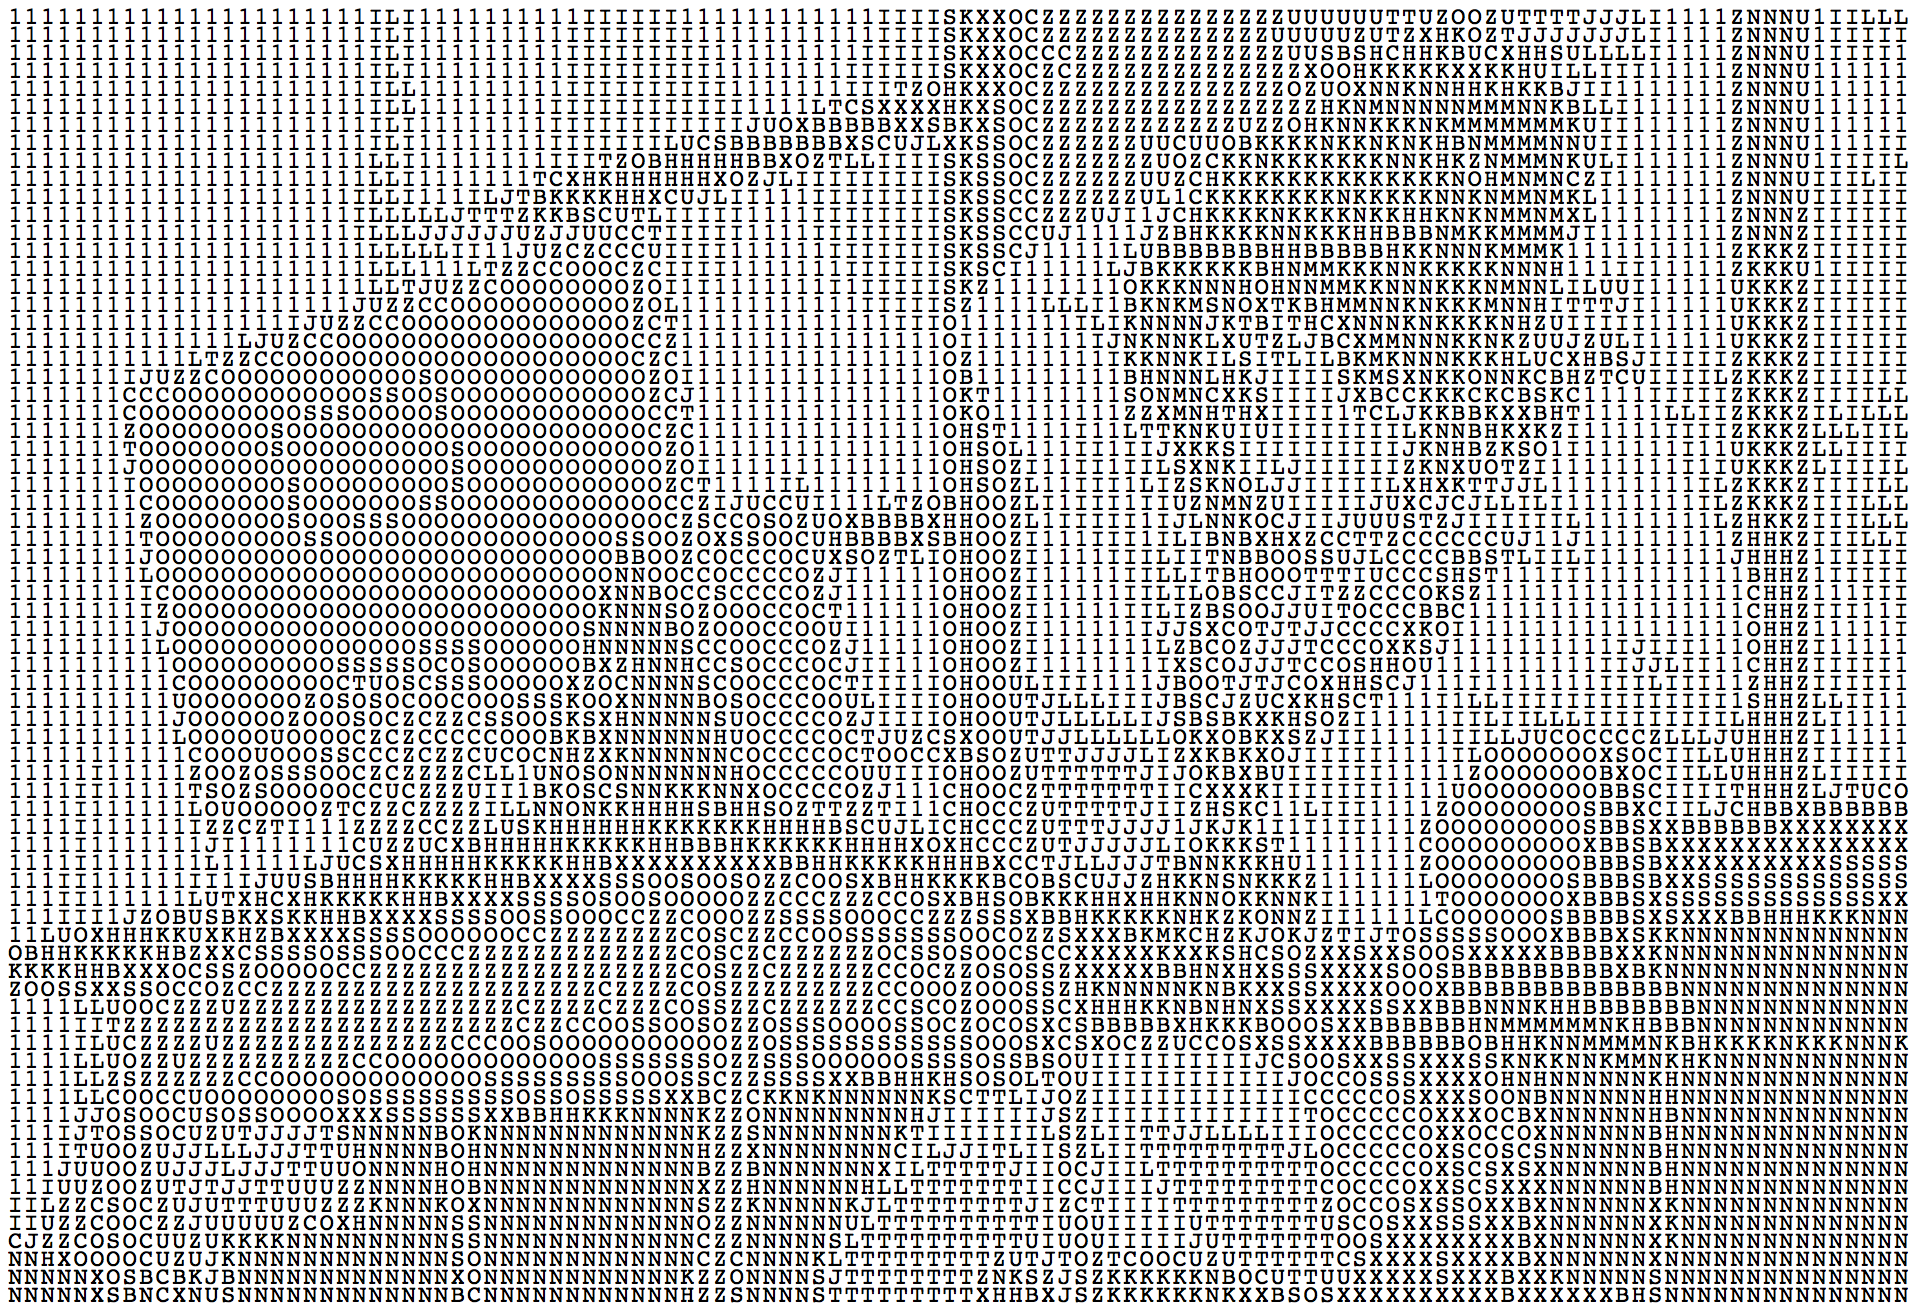
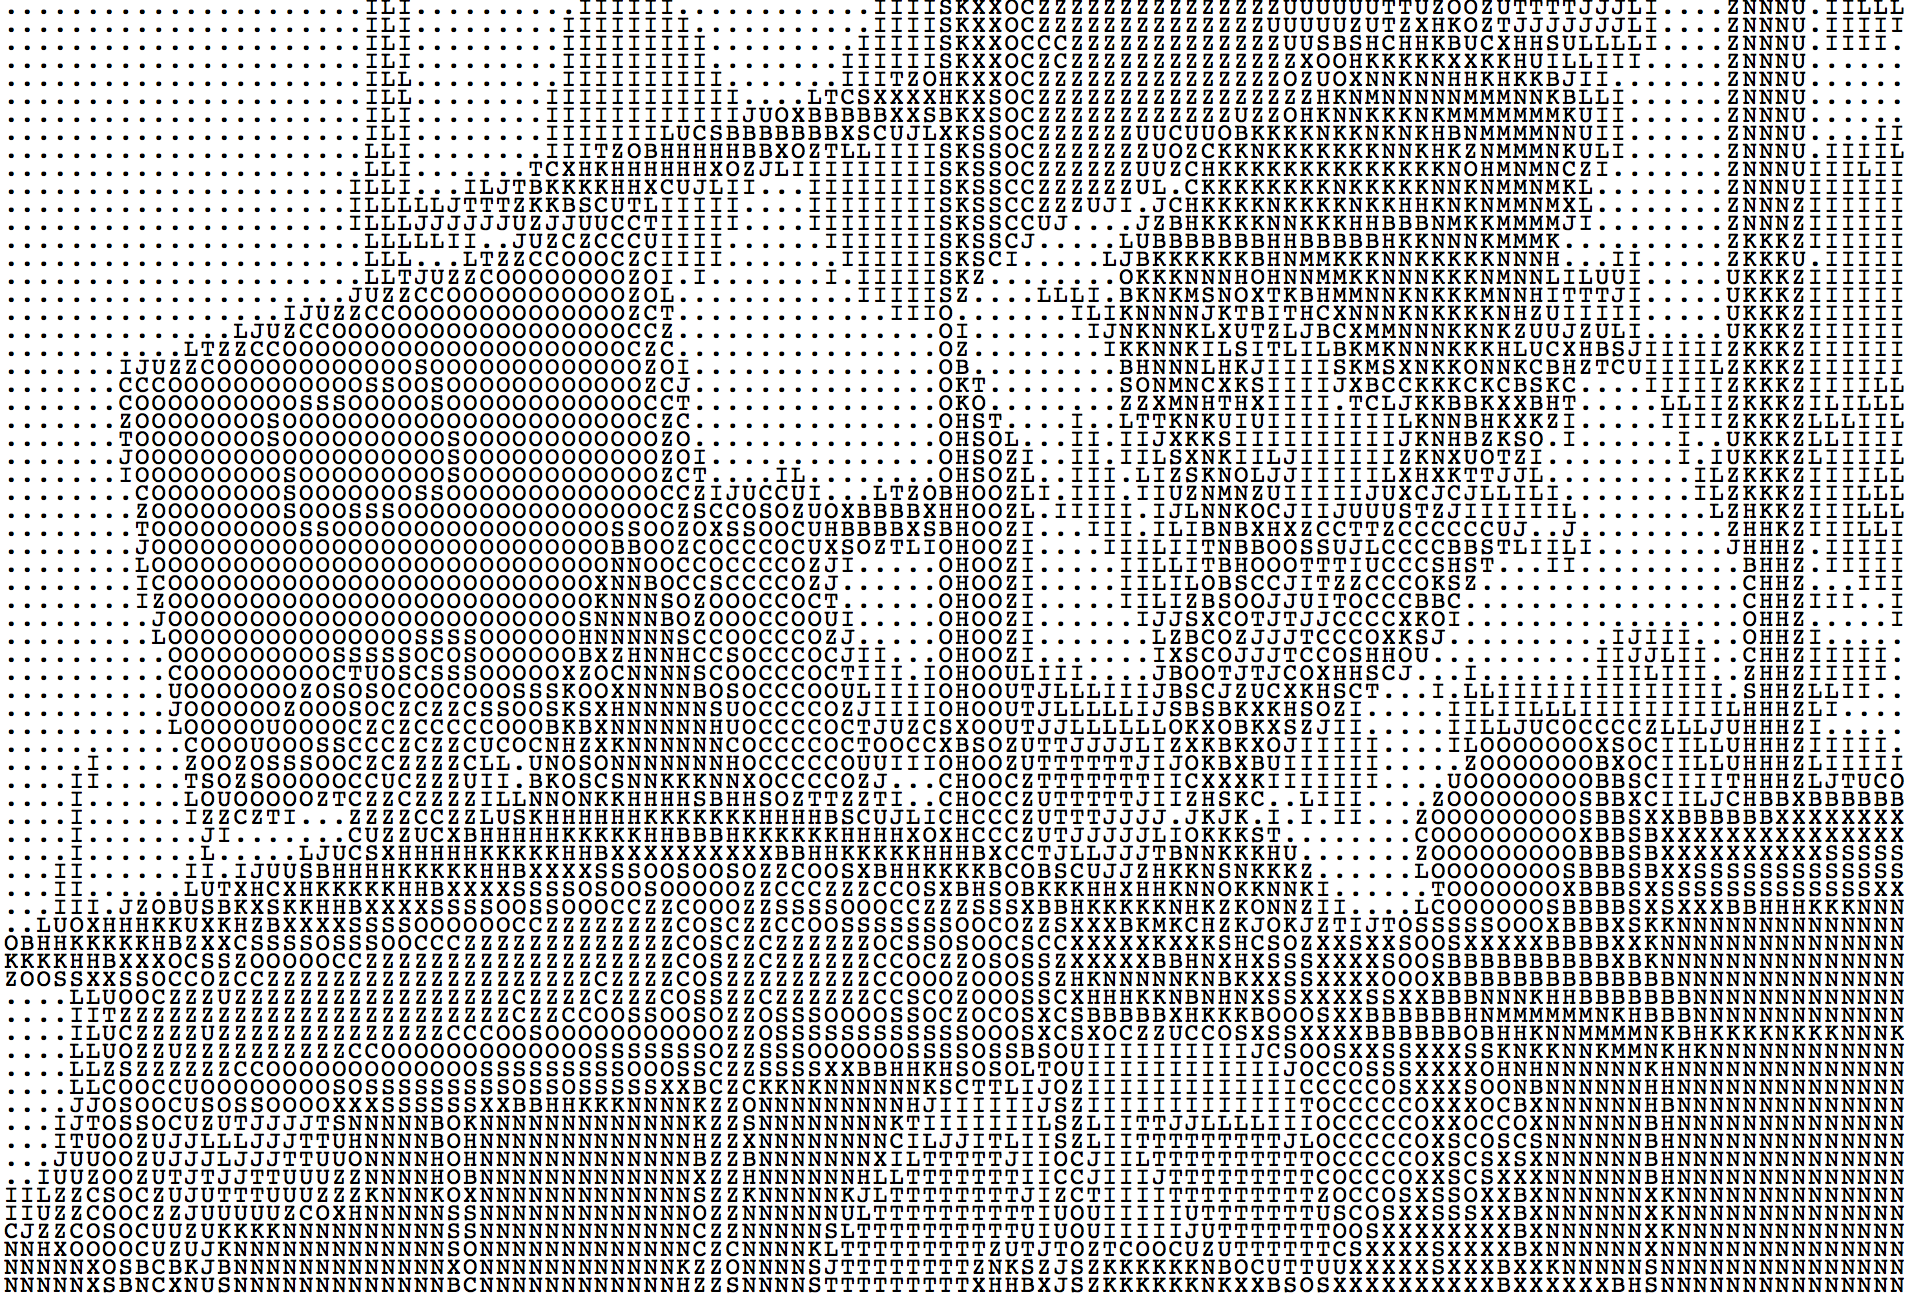
更改白色的显示方式

diff --git a/index.html b/index.html
@@ -113,7 +113,7 @@
 	}
 
 	function color2charMap(color){
-		var chars = ['M','N','K','H','B','X','S','O','C','Z','U','T','J','L','I','1'];
+		var chars = ['M','N','K','H','B','X','S','O','C','Z','U','T','J','L','I','.'];
 		var map = {};
 		for(var i=0; i<256; i++){
 			map[i] = chars[~~(i/16)];
